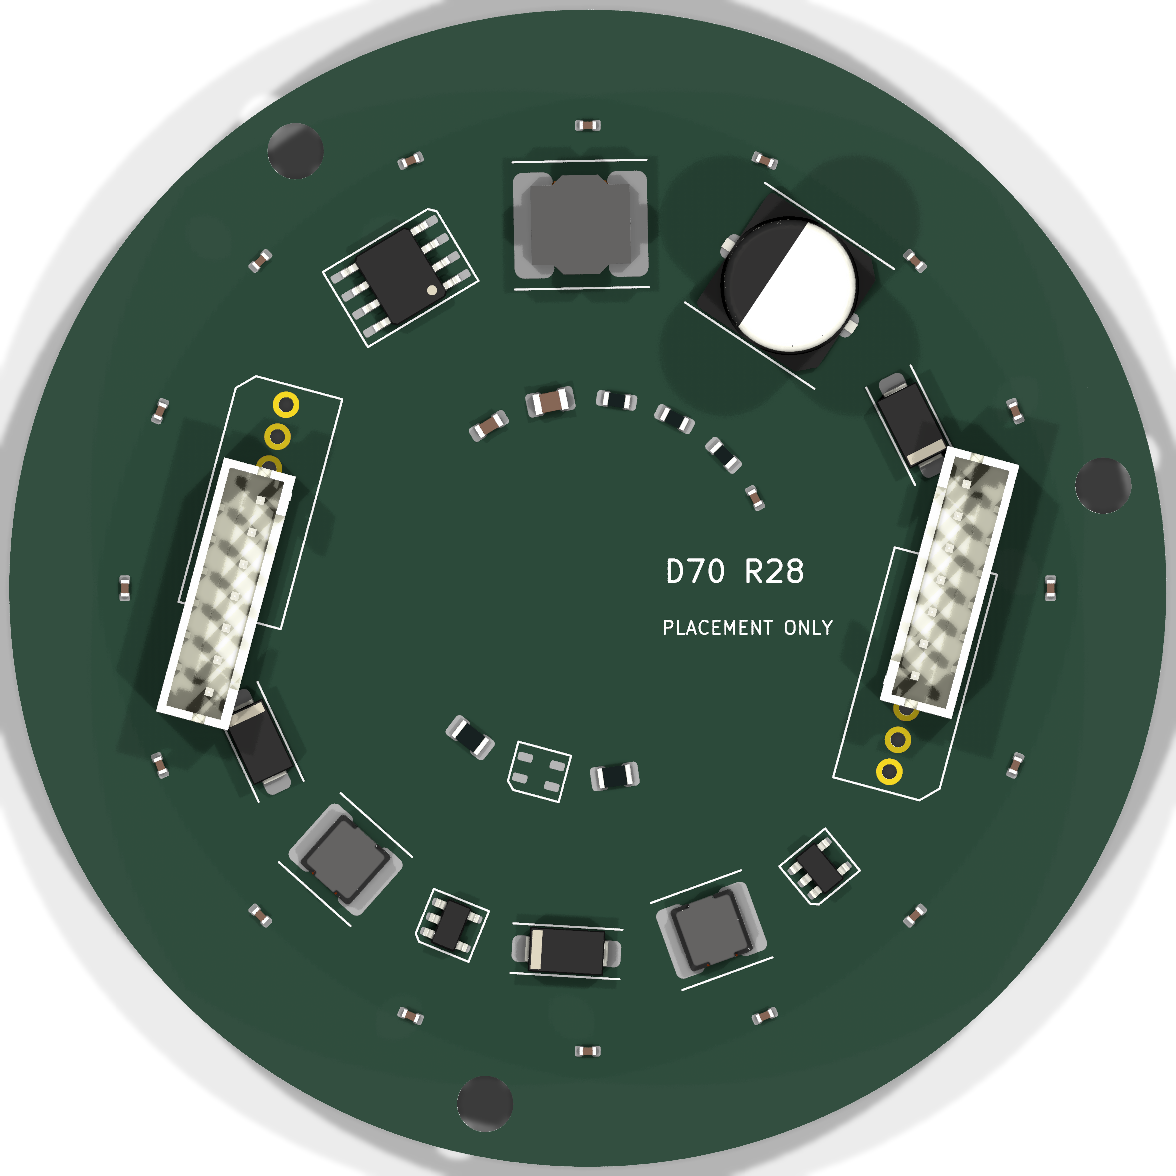
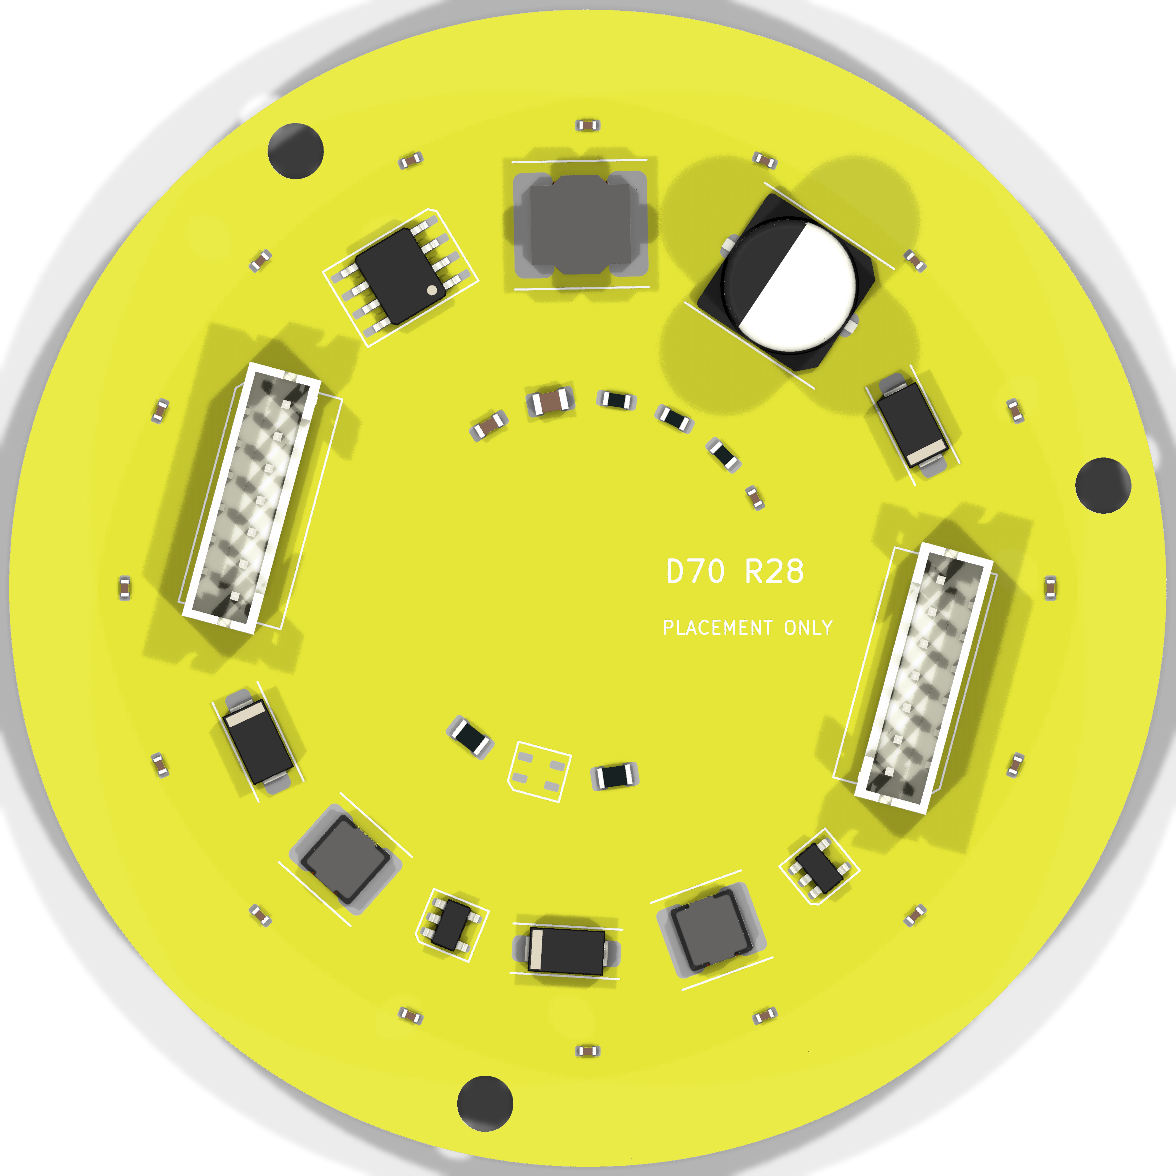
lights: yellow mask renders, connectors seated, tunable white ratified
Claude-Session: https://claude.ai/code/session_01KGs7HAmqeyDzRmkLXBVjfP

diff --git a/public/lights/index.html b/public/lights/index.html
@@ -164,7 +164,7 @@ tr.chosen td.nm{color:var(--live)}
 <tr><td>globe bore (measured)</td><td class="num">80.39 mm</td><td>[M operator, 2026-08-02] — the hole everything must pass through</td></tr>
 <tr><td>globe neck OD / base opening</td><td class="num">4 in / 4.385 in</td><td>[M operator] the fixture&#x27;s seat</td></tr>
 <tr><td>disc diameter</td><td class="num">70 mm</td><td>sized from the bore; was 80 mm before anyone measured — 0.2 mm a side through a rounded edge</td></tr>
-<tr><td>board</td><td class="num">1.6 mm, 2 layer, 1 oz</td><td>fabpcb.ORB_DISC_PCB</td></tr>
+<tr><td>board</td><td class="num">1.6 mm, 2 layer, 1 oz, yellow mask</td><td>fabpcb.ORB_DISC_PCB — mask colour [M operator, 2026-08-02]</td></tr>
 <tr><td>bolt circle</td><td class="num">R31.8 mm, 3 x M3 clearance 4.0 mm</td><td>[X] chosen by the layout — the core&#x27;s bosses must follow it</td></tr>
 <tr><td>tallest component</td><td class="num">10.5 mm (C_IN)</td><td>measured off the layout; fabfit carried an 8.0 mm placeholder</td></tr>
 <tr><td>standoff + board + parts</td><td class="num">15.1 mm</td><td>against a 16 mm pocket, less the stack</td></tr>
@@ -189,7 +189,7 @@ tr.chosen td.nm{color:var(--live)}
 <p class="cap"><b>2700 K high-CRI, one channel</b> — What the module specified before this pass: the domestic warm-white default. It is what an incandescent A19 reads as, so it is the figure nobody argues with and nobody chose. Superseded.</p>
 <p class="cap"><b>2200 K high-CRI, one channel</b> — The 2026-08-01 recommendation: warmer than 2700 K, closer to the gas lamp these cast posts are imitating, and further from the short wavelengths that pull insects. Same part count, same cost, same riser — it is a bin choice, not a design change. Now the WARM END of the tunable range rather than a fixed point.</p>
 <p class="cap"><b>2200 K + 3000 K, two channels (tunable)</b> — The cluster is ALREADY two parallel strings of five. Make one string 2200 K and the other 3000 K, give each its own AL8860, and the blend tunes across that range — no extra LEDs, no change to the disc outline, about $3.44 of driver parts across all eight discs [I, 2026-08-01 pricing pass]. It also buys dim-to-warm, which is what makes a lamp read as a flame rather than as an LED being turned down. IN FORCE: the riser carries five conductors and the connectors are five-position, so the second dim line has somewhere to go.</p>
-<div class="note open"><b>open decision</b>2200&nbsp;K was recommended on 2026-08-01 — warmer, closer to the gas lamp these cast posts imitate, and further from the wavelengths that pull insects — and this module still says 2700&nbsp;K. Same parts, same cost, same riser: it is a bin choice waiting on the operator, not an engineering blocker. Tunable white is a different matter: it needs a 5-position terminal, or a dim line carried inside the pixel protocol.</div>
+<div class="note"><b>decided: tunable white, operator-ratified 2026-08-02</b>The cluster was already two strings of five; one string is 2200&nbsp;K — the 2026-08-01 recommendation, surviving as the warm end of the range — the other 3000&nbsp;K, each with its own constant-current driver, and the blend tunes across the range. Dim-to-warm is what makes a lamp read as a flame rather than as an LED being turned down. The second dim line fits because the riser's four segment-data lines turned out to be a bug — daisy-chained discs have one data input — and fixing it freed the conductor. What this does <em>not</em> buy is more light: the converter is already at its derated capacity, so brightness is a converter decision with a price, not a bin choice.</div>
 </div>
 <div class="col">
 <h2 class="sec">What drawing it found</h2>
